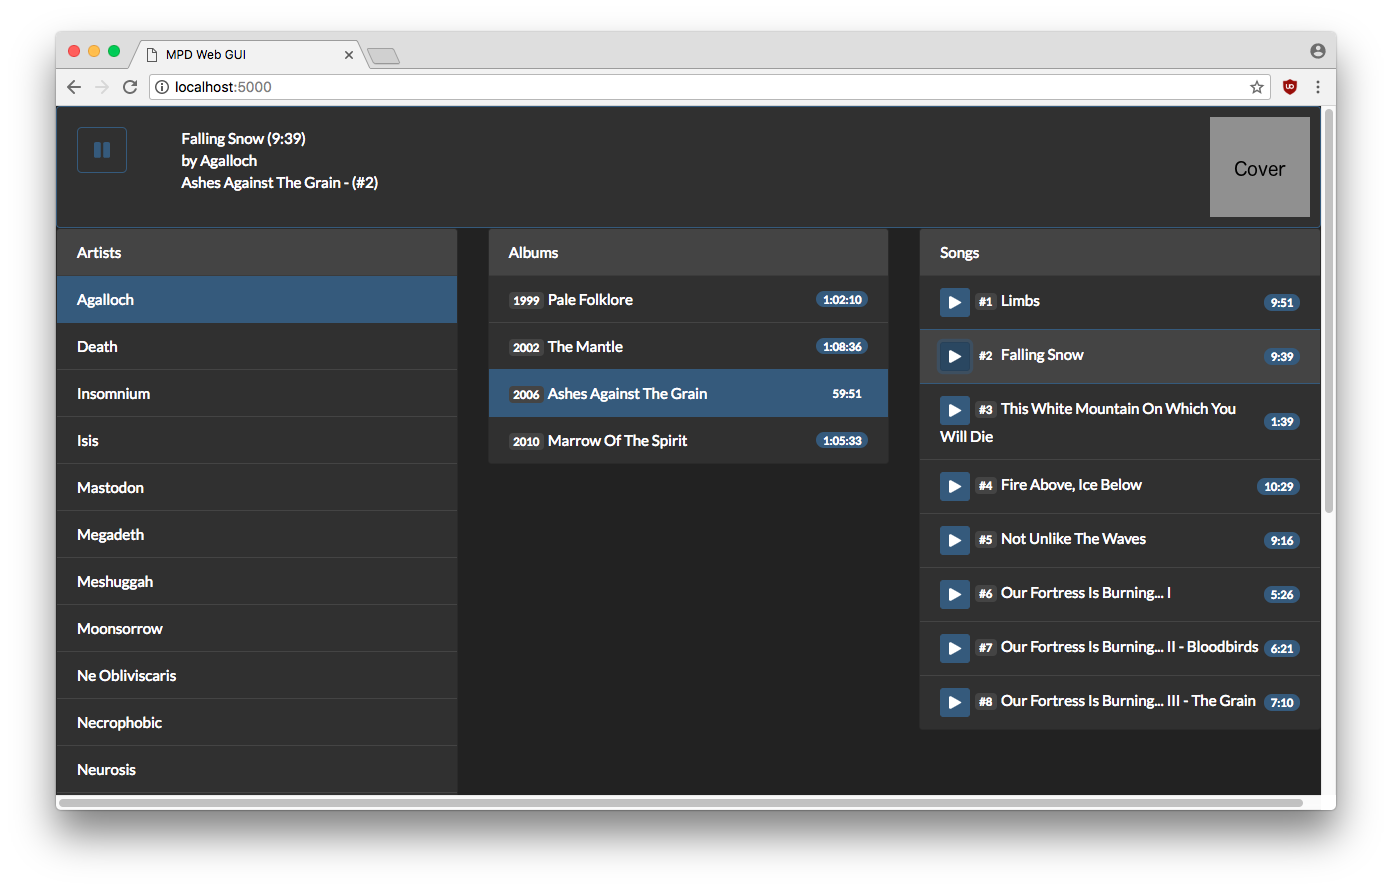
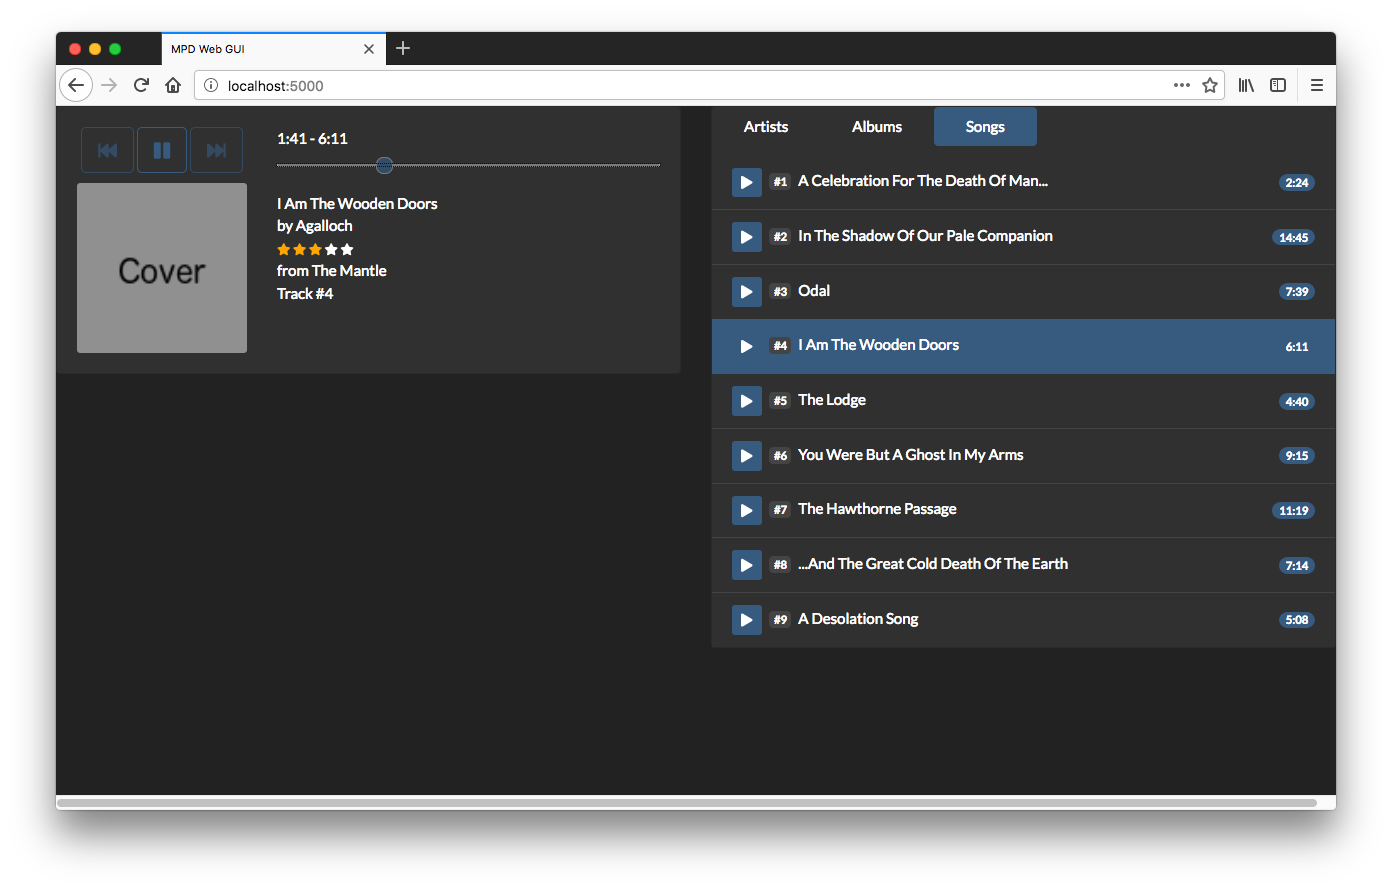
Changed layout from header + three columns to just a two columns layout. This gives us more space in the future for the playlist.

diff --git a/app/templates/library.html b/app/templates/library.html
@@ -1,35 +1,29 @@
-<div class="row">
-    <div class="col-sm">
-        <div class="card">
-            <div class="card-header">
-                Artists
-            </div>
-            <ul class="list-group list-group-flush" id="artists">
-                {% if artists %}
-                    {% for artist in artists %}
-                        <li class="link list-group-item list-group-item-action">{{ artist }}</li>
-                    {% endfor %}
-                {% endif %}
-            </ul>
-        </div>
+<ul class="nav nav-pills" role="tablist">
+    <li class="nav-item">
+        <a class="nav-link active" id="nav-artists-tab" data-toggle="pill" href="#nav-artists" role="tab" aria-controls="nav-artists" aria-selected="true">Artists</a>
+    </li>
+    <li class="nav-item">
+        <a class="nav-link" id="nav-albums-tab" data-toggle="pill" href="#nav-albums" role="tab" aria-controls="nav-albums" aria-selected="false">Albums</a>
+    </li>
+    <li class="nav-item">
+        <a class="nav-link" id="nav-songs-tab" data-toggle="pill" href="#nav-songs" role="tab" aria-controls="nav-songs" aria-selected="false">Songs</a>
+    </li>
+</ul>
+<div class="tab-content" id="nav-tabContent">
+    <div class="tab-pane fade show active" id="nav-artists" role="tabpanel" aria-labelledby="nav-artists-tab">
+        <ul class="list-group list-group-flush" id="artists">
+            {% if artists %}
+                {% for artist in artists %}
+                    <li class="link list-group-item list-group-item-action">{{ artist }}</li>
+                {% endfor %}
+            {% endif %}
+        </ul>
     </div>
-    <div class="col-sm">
-        <div class="card">
-            <div class="card-header">
-                Albums
-            </div>
-            <ul class="list-group list-group-flush" id="albums">
-            </ul>
-        </div>
+    <div class="tab-pane fade" id="nav-albums" role="tabpanel" aria-labelledby="nav-albums-tab">
+        <ul class="list-group list-group-flush" id="albums"></ul>
     </div>
-    <div class="col-sm">
-        <div class="card">
-            <div class="card-header">
-                Songs
-            </div>
-            <ul class="list-group list-group-flush" id="songs">
-            </ul>
-        </div>
+    <div class="tab-pane fade" id="nav-songs" role="tabpanel" aria-labelledby="nav-songs-tab">
+        <ul class="list-group list-group-flush" id="songs"></ul>
     </div>
 </div>
 

diff --git a/app/templates/status.html b/app/templates/status.html
@@ -1,0 +1,33 @@
+<div class="row">
+    <div class="col" style="max-width: 200px">
+        <div id="buttons">
+            <button id="fast-forward-btn" type="button" class="btn btn-outline-primary btn-lg disabled"><i class="fas fa-fast-backward"></i></button>
+            <button id="playback-btn" type="button" class="btn btn-outline-primary btn-lg disabled"><i class="fas fa-play"></i></button>
+            <button id="fast-backward-btn" type="button" class="btn btn-outline-primary btn-lg disabled"><i class="fas fa-fast-forward"></i></button>
+        </div>
+        <img id="cover" class="card-img" src="{{ url_for('static', filename='cover.png') }}" alt="Album cover">
+    </div>
+
+    <div class="col">
+        <div class="slidecontainer">
+            <span id="title_cur_length">0:00</span> - <span id="title_length">0:00</span>
+            <input type="range" min="0" max="100" value="0" class="slider" id="durationSlider">
+        </div>
+
+        <div id="song-tags">
+            <p id="title">Song title</p>
+            <p id="artist">Artist</p>
+            <p id="rating">
+                <span class="stars">
+                    <span class="fa fa-star checked"></span>
+                    <span class="fa fa-star checked"></span>
+                    <span class="fa fa-star checked"></span>
+                    <span class="fa fa-star"></span>
+                    <span class="fa fa-star"></span>
+                </span>
+            </p>
+            <p id="album">Album</p>
+            <p id="track">Track</p>
+        </div>
+    </div>
+</div>

diff --git a/app/templates/player.html b/app/templates/player.html
@@ -3,12 +3,29 @@
 <link rel="stylesheet" type="text/css" href="{{ url_for('static', filename='style.css') }}">
 <script src="{{ url_for('static', filename='third_party/socket-io-2.1.min.js') }}"></script>
 <script src="{{ url_for('static', filename='third_party/jquery-3.3.1.min.js') }}"></script>
+<script src="{{ url_for('static', filename='third_party/bootstrap.bundle.min.js') }}"></script>
 <script defer src="{{ url_for('static', filename='third_party/fontawesome-all-5.0.10.js') }}"></script>
 <script src="{{ url_for('static', filename='helper.js') }}"></script>
-<script src="{{ url_for('static', filename='header.js') }}"></script>
+<script src="{{ url_for('static', filename='status.js') }}"></script>
 <script src="{{ url_for('static', filename='library.js') }}"></script>
 
 <title>MPD Web GUI</title>
 
-{%  include 'header.html' %}
-{%  include 'library.html' %}
+<div id="player">
+    <div class="row">
+        <div class="col-md">
+            <div class="card">
+                <div class="card-body">
+                    {%  include 'status.html' %}
+                </div>
+            </div>
+        </div>
+        <div class="col-md">
+            <div class="card">
+{#                <div class="card-body">#}
+                    {%  include 'library.html' %}
+{#                </div>#}
+            </div>
+        </div>
+    </div>
+</div>

diff --git a/app/static/style.css b/app/static/style.css
@@ -10,14 +10,13 @@
     cursor: pointer;
 }
 
+#buttons {
+    text-align: center;
+    margin-bottom: 10px;
+}
+
 #cover {
-    width: 100px;
-    height: 100px;
-    background-size: 100px;
-    background: url("cover.png") no-repeat center;
-    margin-right: -10px;
-    margin-top: -10px;
-    margin-bottom: -10px;
+
 }
 
 .hidden {
@@ -60,6 +59,38 @@
     cursor: pointer;
 }
 
-p{
+p {
     margin-bottom: 0px;
+}
+
+#songs .badge-secondary::before {
+    content: "#";
+}
+
+#artist::before {
+    content: "by ";
+}
+
+#track::before {
+    content: "Track #";
+}
+
+#album::before {
+    content: "from ";
+}
+
+#song-tags {
+    margin-top: 20px;
+}
+
+.nav.nav-pills {
+    margin-bottom: 10px;
+}
+
+.stars {
+    font-size: 0.8em;
+}
+
+.checked {
+    color: orange;
 }

diff --git a/app/static/library.js b/app/static/library.js
@@ -57,6 +57,8 @@ function initAlbumClickListener() {
             'album': $(this).find('.title').text()
         };
 
+        $('#nav-songs-tab').tab('show');
+
         updateList(
             '/songs',
             requestParams,
@@ -76,6 +78,7 @@ function initArtistClickListener() {
         };
 
         $('#songs').empty();
+        $('#nav-albums-tab').tab('show');
 
         updateList(
             '/albums',
@@ -85,7 +88,7 @@ function initArtistClickListener() {
     });
 }
 
-$(document).ready(function(){
+$(function(){
     initArtistClickListener();
     initAlbumClickListener();
     initPlayButtonClickListener();

diff --git a/app/static/helper.js b/app/static/helper.js
@@ -1,7 +1,5 @@
 function makeLengthReadable(seconds) {
     const time = new Date(1000 * seconds).toISOString();
-    if (seconds < 60)
-        return time.substr(17, 2);
     if (seconds < 600)
         return time.substr(15, 4);
     if (seconds < 3600)

diff --git a/app/static/status.js b/app/static/status.js
@@ -63,7 +63,7 @@ function connectSocket(){
     });
 }
 
-$(document).ready(function(){
+$(function(){
     playButton = $("#playback-btn");
     playButton.click(function() {
         play();

diff --git a/README.md b/README.md
@@ -48,7 +48,7 @@ Then go to: [http://localhost:5000](http://localhost:5000)
 * A status bar showing the current song (refreshes on song play/pause)
 * Pause/resume a song from the status bar
 * Show song progress
-* socket communication for UI updates 
+* Socket communication for UI updates 
 
 ## What needs to be done
 * Implement a playlist
